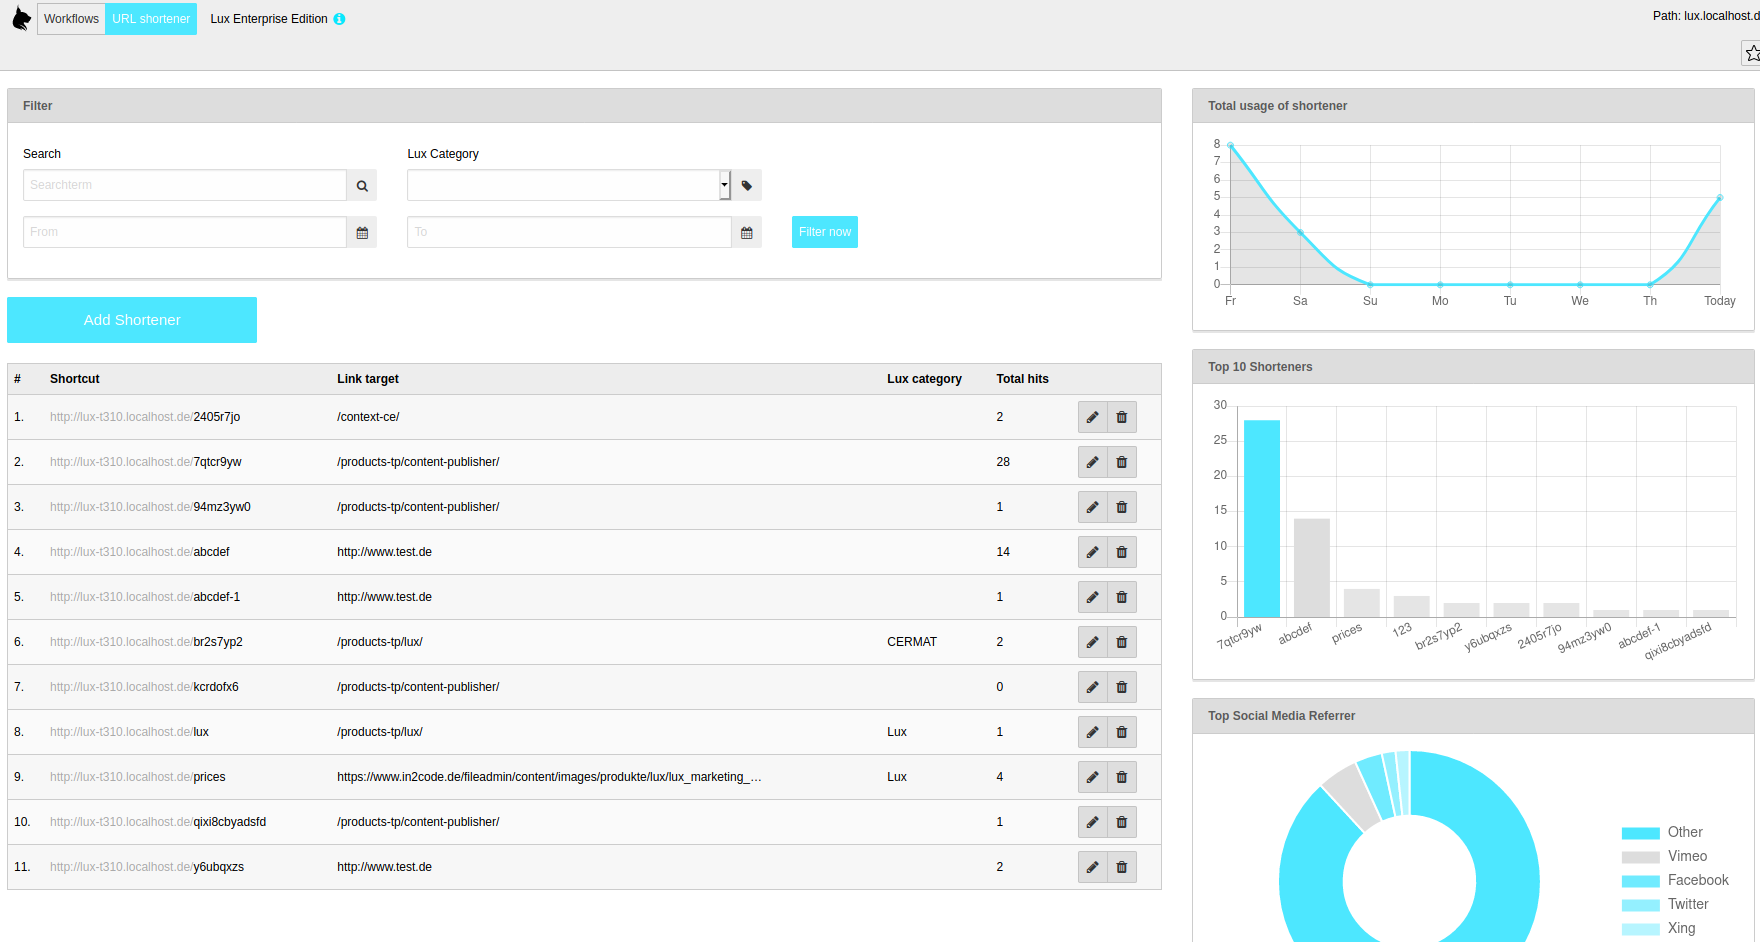
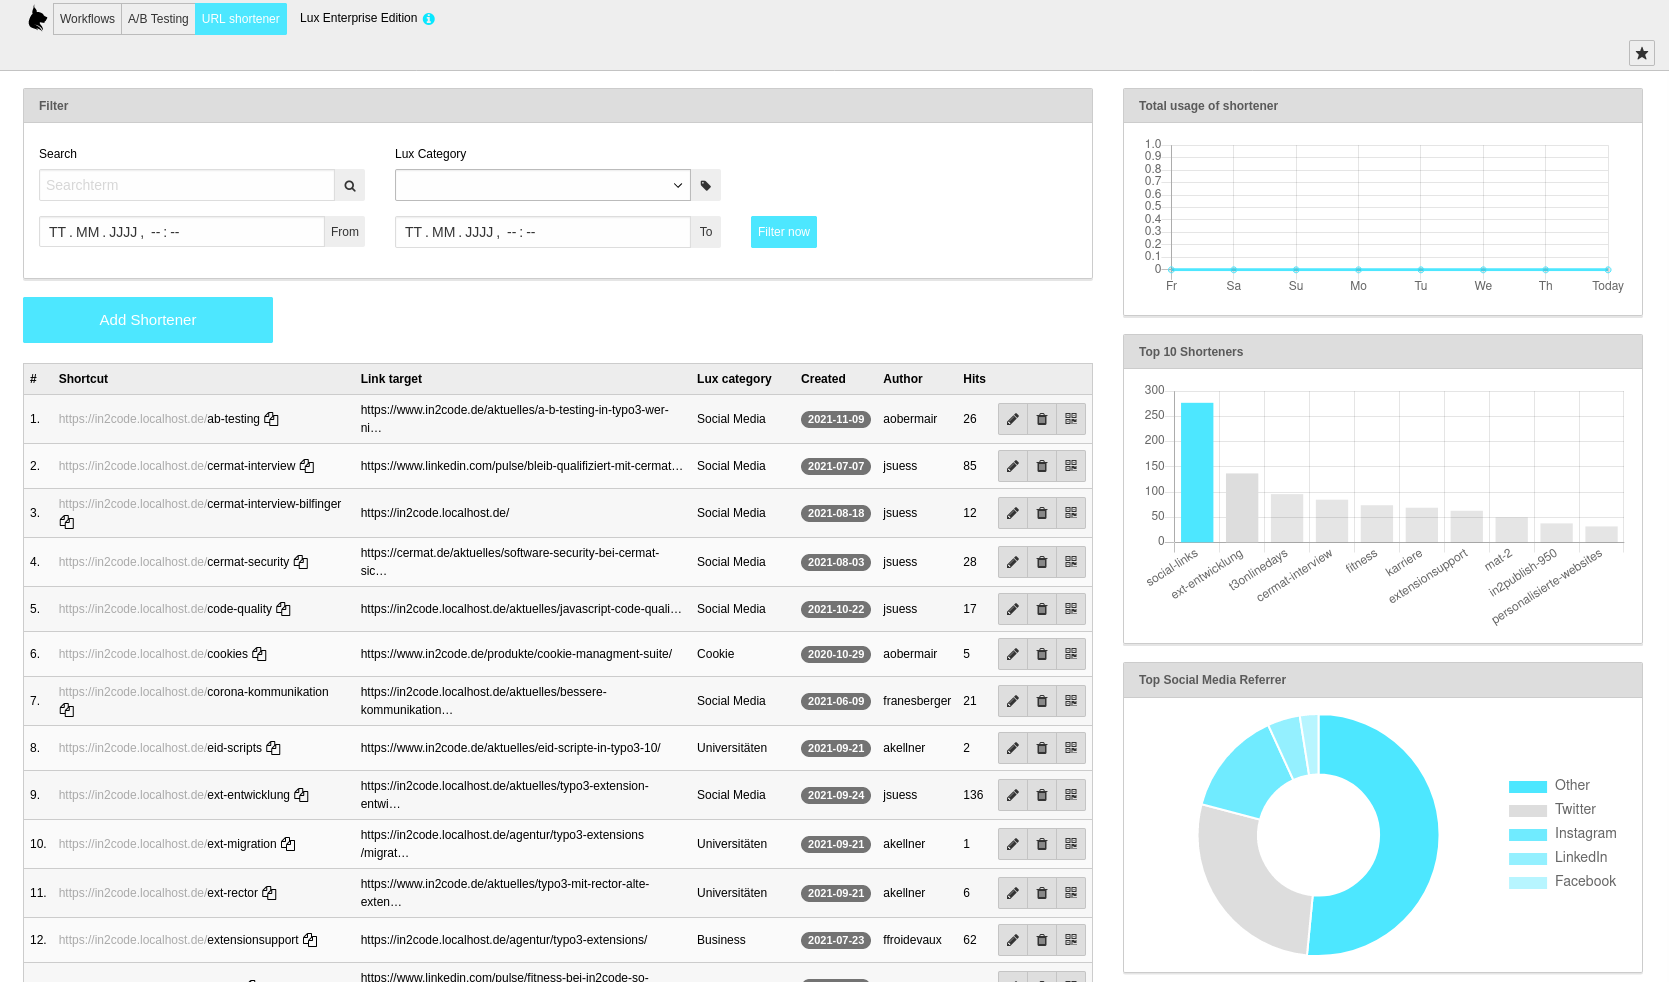
[TASK] Update shortener documentation

Changed region(s): [[0.0, 0.0, 1.0, 1.0], [0.2493, 0.2155, 0.3116, 0.2463], [0.1869, 0.1847, 0.2181, 0.2463]]

diff --git a/Documentation/Technical/Campaigns/UrlShortener.md b/Documentation/Technical/Campaigns/UrlShortener.md
@@ -18,3 +18,22 @@ This view works basicly like every other view in Lux. You can filter your shorte
 timeframe. Diagrams are showing you "overall usage", "top shortener" and visits from "socialmedia".
 
 A click on an existing shortener will show you individual information about the leads that used this shortener.
+
+##### Detail view
+
+If you click on the edit icon symbol, the edit view is opened. This view is similar to the view if you add a new
+shortener record.
+
+<img src="../../../Documentation/Images/screenshot_urlshortener_edit.png" width="800" />
+
+| Field                                            | Description                                                                                               |
+| ------------------------------------------------ | --------------------------------------------------------------------------------------------------------- |
+| Enabled                                          | Toggle the status of this redirect.                                                                       |
+| From                                             | Contains your short url (without a domain). This code must be unique in your system.                      |
+| To                                               | Select the internal or external target for the redirect                                                   |
+| Lux category                                     | Choose a category for better management of your shorteners                                                |
+| Description                                      | You can add an internal description for what campaign this shortener is                                   |
+| QR code                                          | If you need a QR code for your marketing campaign, you can download this PNG                              |
+| Creation date                                    | Note when was this record created                                                                         |
+| Author                                           | Note to see who was creating this record                                                                  |
+
